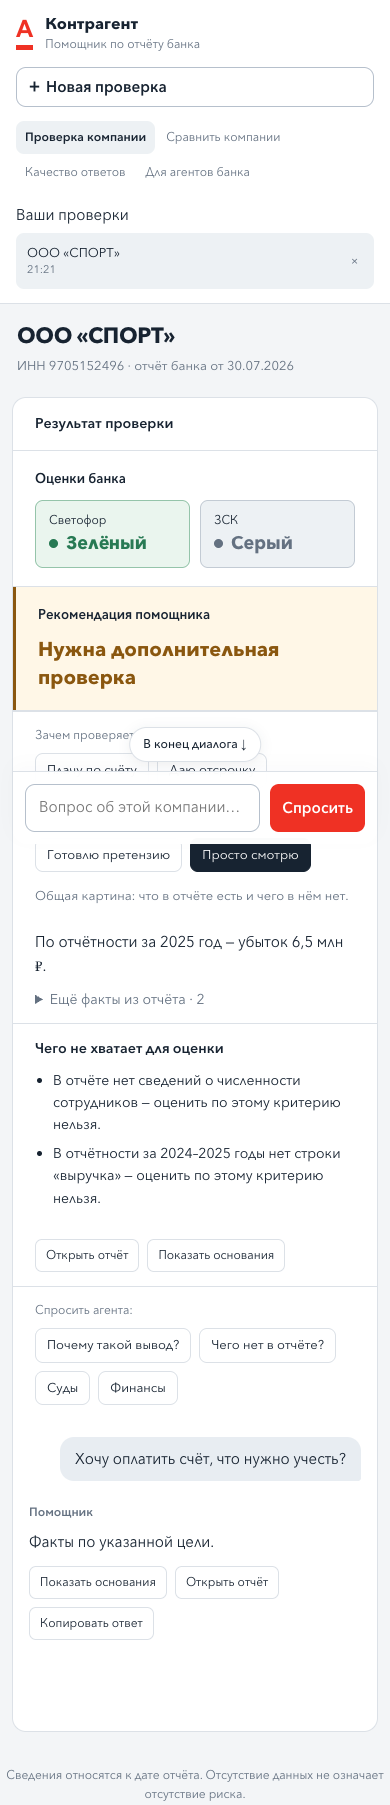
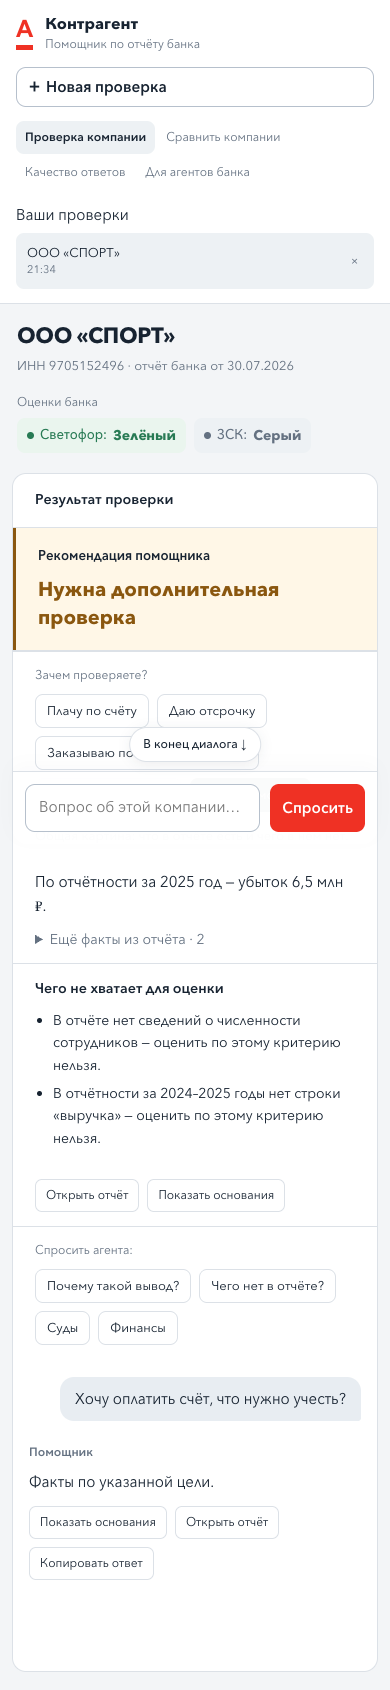
Place bank indicators beside the company name

diff --git a/src/contractor_agent/api/static/index.html b/src/contractor_agent/api/static/index.html
@@ -34,11 +34,10 @@ button:focus-visible,a:focus-visible,input:focus-visible,textarea:focus-visible,
 .hint button { border:1px solid var(--line); border-radius:8px; background:#fff; padding:7px 12px; }
 .picker { display:grid; gap:8px; margin-top:14px; } .picker button { padding:14px; background:#fff; border:1px solid var(--line); border-radius:10px; text-align:left; } .picker small { display:block; color:var(--muted); }
 .empty { color:var(--muted); font-size:14px; }
-.company { scroll-margin-top:75px; display:flex; flex-wrap:wrap; justify-content:space-between; align-items:start; gap:16px; margin-bottom:20px; }
+.company { scroll-margin-top:75px; display:flex; flex-wrap:wrap; justify-content:space-between; align-items:center; gap:16px; margin-bottom:20px; }
 .company h1 { margin:0; font-size:25px; line-height:1.3; letter-spacing:-.4px; } .meta { color:var(--muted); font-size:13px; margin-top:6px; }
-.assessment { display:grid; grid-template-columns:minmax(0,1.15fr) minmax(300px,1fr); border-bottom:1px solid var(--line); }
+.assessment { border-bottom:1px solid var(--line); }
 .assessment-label { font-size:13px; font-weight:600; margin:0 0 10px; color:var(--text); }
-.bank-ratings { padding:18px 22px; border-left:1px solid var(--line); }
 .bank-marks { display:grid; grid-template-columns:1fr 1fr; gap:10px; }
 .bank-rating { min-width:0; padding:10px 13px; background:var(--gray-bg); border:1px solid #c3cbd4; border-radius:8px; }
 .bank-rating span { display:block; font-size:12px; color:var(--text); }
@@ -50,7 +49,16 @@ button:focus-visible,a:focus-visible,input:focus-visible,textarea:focus-visible,
 .bank-marks.compact { grid-template-columns:1fr; gap:6px; }
 .compact .bank-rating { display:flex; justify-content:space-between; align-items:center; flex-wrap:wrap; gap:4px 8px; padding:7px 10px; }
 .compact .bank-rating strong { font-size:14px; }
-@media(max-width:1050px) { .assessment { grid-template-columns:1fr; } .bank-ratings { order:-1; border-left:0; border-bottom:1px solid var(--line); } }
+.company-ratings { max-width:100%; }
+.company-ratings .assessment-label { color:var(--muted); font-size:12px; font-weight:400; margin-bottom:6px; }
+.company-ratings .bank-marks { display:flex; flex-wrap:wrap; gap:8px; }
+.company-ratings .bank-rating { display:flex; align-items:center; gap:6px; padding:7px 10px; border:0; color:var(--gray); }
+.company-ratings .bank-rating.g { color:var(--ok); } .company-ratings .bank-rating.y { color:var(--mod); } .company-ratings .bank-rating.r { color:var(--crit); }
+.company-ratings .bank-rating::before { content:""; width:7px; height:7px; border-radius:50%; background:currentColor; flex:none; }
+.company-ratings .bank-rating span { color:inherit; font-size:13px; font-weight:500; }
+.company-ratings .bank-rating span::after { content:":"; }
+.company-ratings .bank-rating strong { font-size:14px; }
+.company-ratings .bank-rating strong::before { display:none; }
 .panel { background:#fff; border:1px solid var(--line); border-radius:14px; margin-top:20px; }
 .head { display:flex; justify-content:space-between; gap:12px; align-items:center; padding:15px 22px; border-bottom:1px solid var(--line); } .head .t { font-size:14px; font-weight:600; } .head .d { color:var(--muted); font-size:12px; }
 .verdict { padding:18px 22px; border-left:3px solid transparent; } .verdict .v { font-weight:700; font-size:20px; line-height:1.4; max-width:70ch; } .verdict .s { margin-top:6px; font-size:14px; max-width:74ch; }
@@ -131,6 +139,7 @@ button:focus-visible,a:focus-visible,input:focus-visible,textarea:focus-visible,
 
     <section class="company" id="company" hidden>
       <div><h1 id="cname"></h1><div class="meta" id="cmeta"></div></div>
+      <section class="company-ratings" aria-label="Оценки банка"><div class="assessment-label">Оценки банка</div><div id="companyRatings"></div></section>
     </section>
 
     <section class="panel" id="agent" hidden>
@@ -550,7 +559,7 @@ function renderCard(c) {
   const li = a => `<li>${esc(a.claim)}</li>`;
   const sub = c.terminal ? 'Компания в процедуре банкротства или исключается из реестра: сделки могут быть оспорены, обязательства не исполнены.' :
     c.verdict === 'ok' ? 'По доступным данным существенных факторов риска не выделено. Ограничения отчёта приведены ниже.' : '';
-  $('#cardAssessment').innerHTML = `<div class="assessment"><div class="verdict ${c.verdict}"><div class="assessment-label">Рекомендация помощника</div><div class="v">${recommendationText(c)}</div>${sub ? `<div class="s">${sub}</div>` : ''}</div><section class="bank-ratings" aria-label="Оценки банка"><div class="assessment-label">Оценки банка</div>${bankMarks(c.labels)}</section></div>`;
+  $('#cardAssessment').innerHTML = `<div class="assessment"><div class="verdict ${c.verdict}"><div class="assessment-label">Рекомендация помощника</div><div class="v">${recommendationText(c)}</div>${sub ? `<div class="s">${sub}</div>` : ''}</div></div>`;
   let html = '';
   const primary = goal && goal !== 'look' ? facts : facts.filter(a => a.severity !== 'info');
   const rest = facts.filter(a => !primary.includes(a));
@@ -581,6 +590,7 @@ function showCompany(c) {
   $("#company").hidden = false; $("#agent").hidden = false;
   $("#cname").textContent = c.name;
   $("#cmeta").textContent = `ИНН ${c.inn} · отчёт банка от ${dateRu(c.report_date)}`;
+  $("#companyRatings").innerHTML = bankMarks(c.labels);
   $("#ahead").textContent = "";
   renderCard(c);
   $("#ask").focus({preventScroll:true});

diff --git a/docs/REVIEW_STANDS_IMPLEMENTATION.md b/docs/REVIEW_STANDS_IMPLEMENTATION.md
@@ -24,8 +24,8 @@
 | 13. MCP | «8 функций», переносимый конфиг; явно указан запуск по stdio из установленного проекта. Публичный MCP-адрес не заявлен. |
 | 14. Интерфейс | Русские кавычки, дата в шапке карточки один раз, компактные ответы, Enter/Shift+Enter, сохранение набираемого текста и мобильная ширина. Плавные панели, переход к началу нового вопроса и ответа, кнопка «В конец диалога». Ручная прокрутка вверх приостанавливает автопереход; системное уменьшение движения учитывается. |
 
-Оценки банка показаны крупными цветными метками рядом с рекомендацией помощника,
-на телефоне — над ней. Оба блока находятся выше выбора цели;
+Оценки банка показаны компактными цветными метками справа от названия компании,
+на телефоне — под её реквизитами. Рекомендация помощника остаётся отдельным блоком ниже;
 в сравнении оценки банка стоят над строкой рекомендаций. Явная цель из сообщения
 (например, «хочу оплатить счёт») выбирается сразу и сохраняется в диалоге.
 Без цели и при «Просто смотрю» договор не предполагается.
